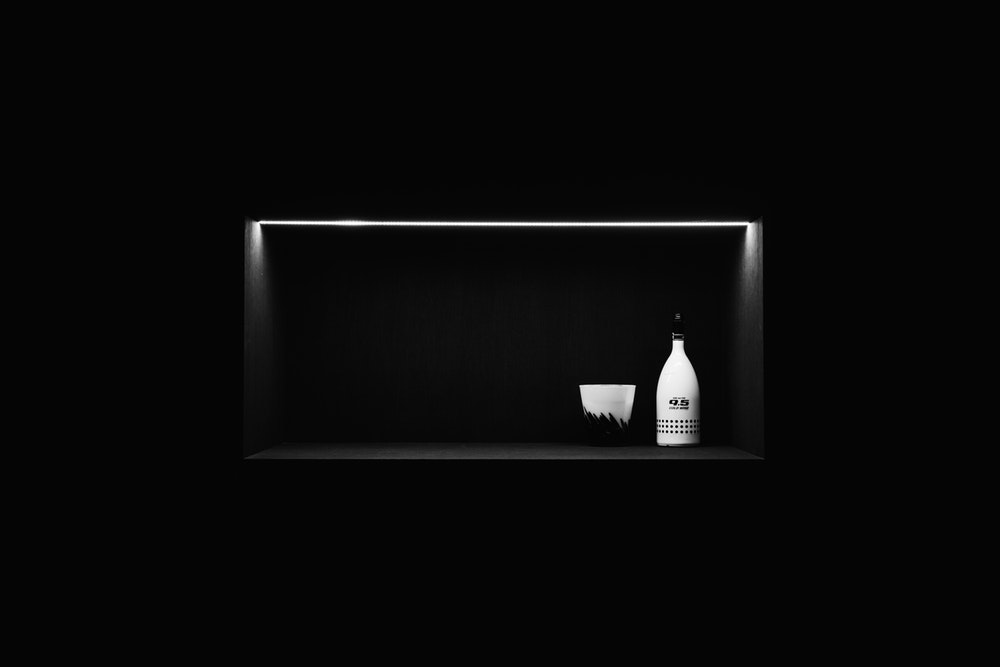
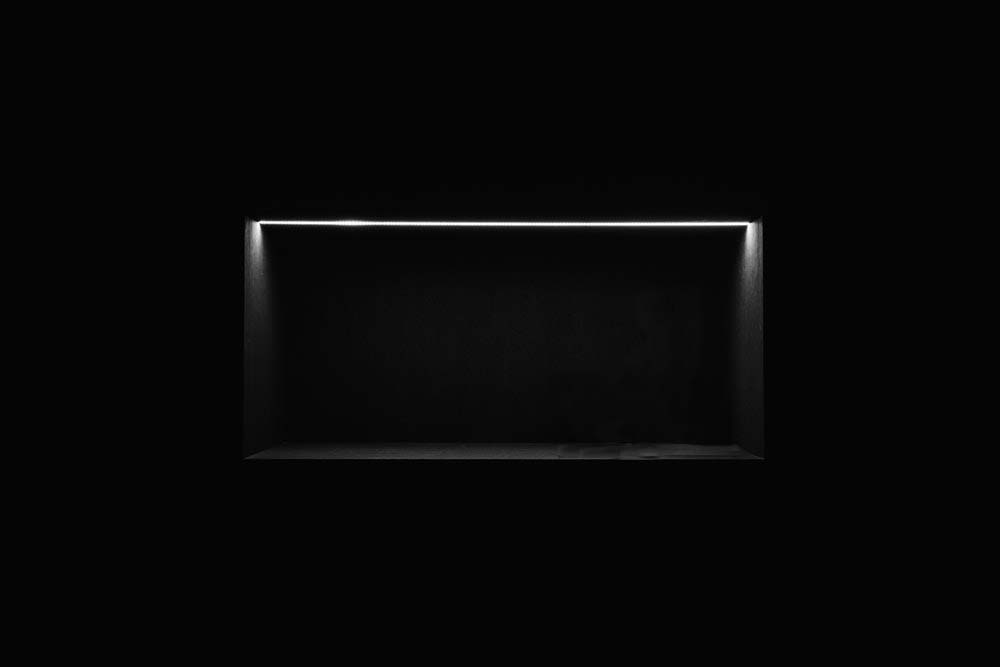
background
background thlakna

Changed region(s): [[0.558, 0.5097, 0.713, 0.6897]]

diff --git a/product.html b/product.html
@@ -3,19 +3,22 @@
 
 <head>
 <meta charset="UTF-8">
-<meta name="viewport" content="width=device-width, initial-scale=1.0">
   <link rel="stylesheet" type="text/css" href="product.css">
 </head>
 
-<body background="saw.jpg">
+<body>
+ <h3>
+      <img align="left" src="image/5.png" alt="saw" width="100" height="60">
+      
+      <p style="text-align:left;">&nbsp CT Enterprise @bazar bungkawn, near overbridge &nbsp&nbsp&nbsp&nbsp&nbsp&nbsp&nbsp&nbsp&nbsp&nbsp&nbsp&nbsp&nbsp&nbsp&nbsp&nbsp&nbsp&nbsp&nbsp&nbsp&nbsp&nbsp&nbsp&nbsp&nbsp&nbsp&nbsp&nbsp&nbsp&nbsp&nbsp&nbsp&nbsp&nbsp&nbsp&nbsp&nbsp&nbsp&nbsp&nbsp&nbsp&nbsp&nbsp&nbsp&nbsp&nbsp&nbsp&nbsp&nbsp&nbsp&nbsp&nbsp&nbsp&nbsp&nbsp&nbsp&nbsp&nbsp&nbsp&nbsp&nbsp&nbsp&nbsp&nbsp&nbsp&nbsp&nbsp&nbsp&nbsp&nbsp&nbsp&nbsp&nbsp&nbsp&nbsp&nbsp&nbsp&nbsp&nbsp&nbsp&nbsp&nbsp&nbsp&nbsp&nbsp&nbsp&nbsp&nbsp&nbsp&nbsp&nbsp&nbsp&nbsp&nbsp&nbsp&nbsp&nbsp&nbsp&nbsp&nbsp&nbsp&nbsp&nbsp&nbsp&nbsp&nbsp&nbsp&nbsp&nbsp&nbsp&nbsp&nbsp <a href=home.html><button class="btn">home</button></a></p> 
+          </h3>
 <hr>
 
-<p>&nbsp</p>
-<p>&nbsp</p>
 
+<p>&nbsp</p>
+<p>&nbsp</p>
 
 <div>Eng company product nge i duh le!</div>
-<p>&nbsp</p>
 
 <p>&nbsp</p>
 <p>&nbsp</p>
@@ -33,7 +36,7 @@
     <button style="background:black;">Honor</button>
   </a>
 
-  <a href="oppo.html">
+  <a href="vivo.html">
    <button>Oppo</button>
   </a>
 

diff --git a/home.css b/home.css
@@ -1,23 +1,25 @@
 body {
-  background: url(image/theme4.jpg);
+  background: url(image/TK.jpg);
   background-position: right top;
   margin-right:10px;
   background-attachment: fixed;
-  background: rgba(1,10,6,5);
+  background-repeat: repeat-y;
+  background-size: 100%;
+
 }
 
 h3{
 	font-family: Arial;
 	font-style: italic;
 	font-size: 20px;
-	color:yellow;
+	color:#b0e0e6;
 }
 
 h2{
 	font-family: Arial;
 	font-style: italic;
 	font-size: 40px;
-	color:yellow;
+	color:#ff8c00;
 }
 p{
 	font-family: Arial;

diff --git a/product.css b/product.css
@@ -1,10 +1,14 @@
 div{
 	font-size: 50px;
 	font-style: italic;
-	color:#fffff0;
+	color:yellow;
 	text-align: center;
 	height: 20px;
 	text-decoration: underline;
+}
+
+h3{
+	color: white
 }
 
 p{
@@ -25,10 +29,15 @@ a{
 }
 
 body{
-	background-image: url(image/1.jpg);
+	background-image: url(image/TK.jpg);
+	background-size: 100%;
 }
 
 hr{
 	color: green;
 	height: 10px;
+}
+
+.btn{
+	background: blue;
 }
